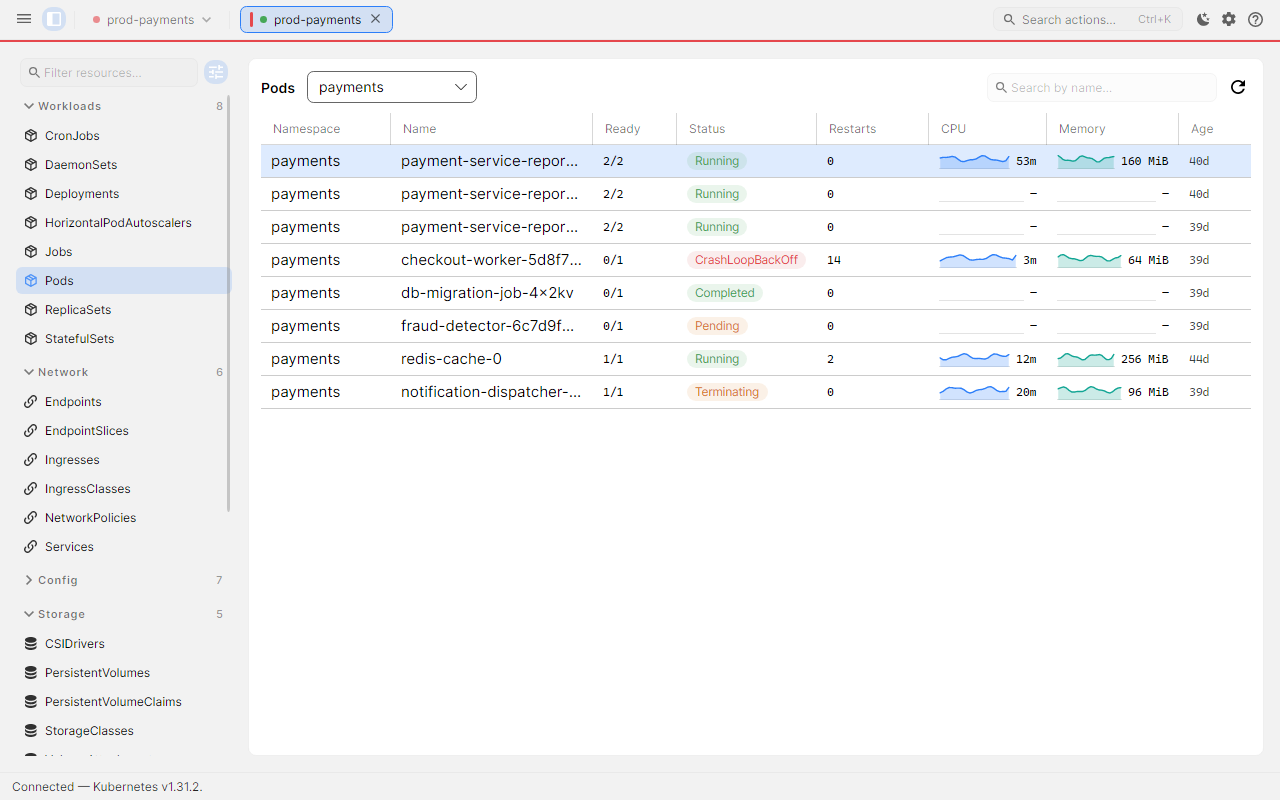
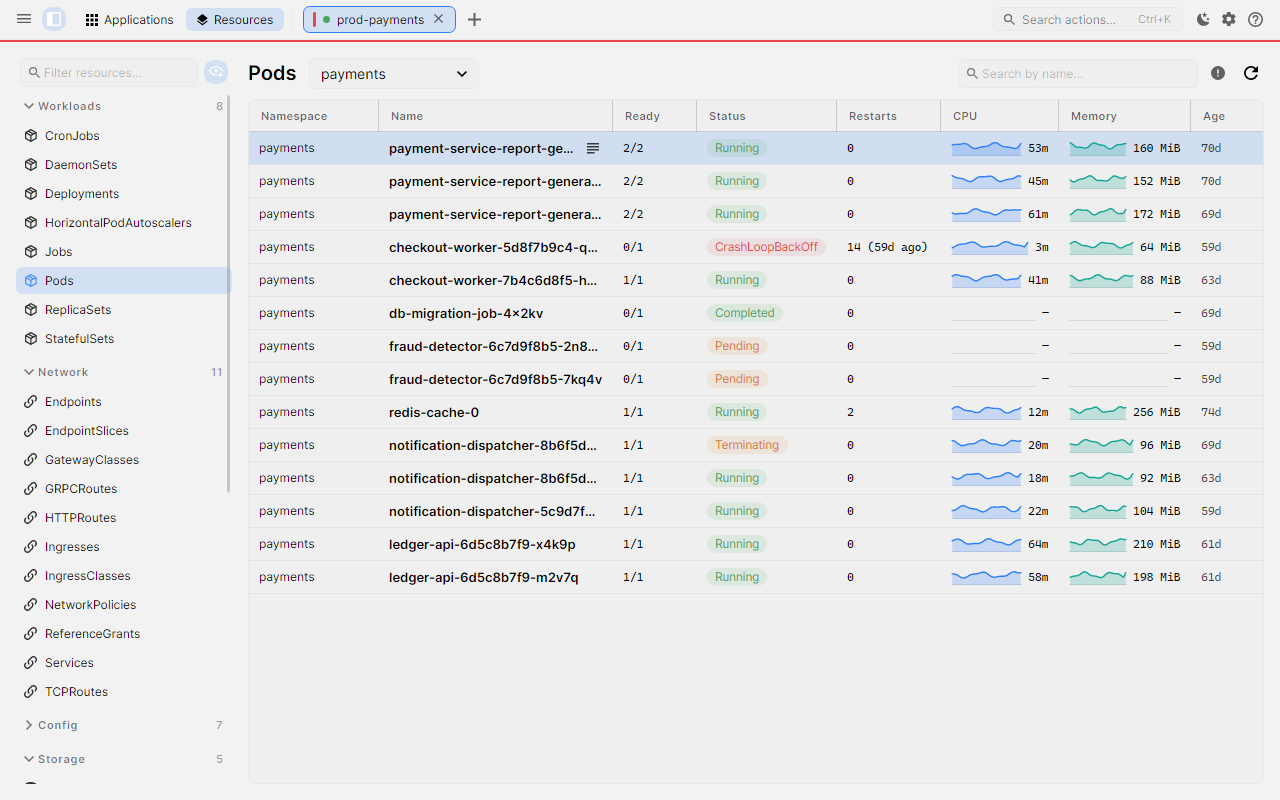
Refresh the README screenshots and add a Microsoft Store set
Every README image is re-rendered on Windows from the current UI (the
surfaces, tables and chrome this branch changed), and the gallery gains a
first row for the Applications list and page, the screen a cluster opens on.

The Store asks for desktop screenshots of 1366x768 or larger, and the
README's are 1280 wide, so the pre-launch checklist's "the generated shots
qualify" was wrong. Seven store-* harness scenarios render the same fixtures
at 1920x1080 into design/store/screenshots, with a README mapping file to
scenario; they are also the harness's only wide-window render.

diff --git a/tools/Screenshot/Program.cs b/tools/Screenshot/Program.cs
@@ -327,6 +327,18 @@ var scenarios = new (string Name, Func<Control> Build)[]
     // maximized" switch sits below the fold of the shot above.
     ("main-window-preferences-logs", () => BuildMainWindowContent(openPreferences: true)),
     ("main-window-about", () => BuildMainWindowContent(openAbout: true)),
+
+    // The Microsoft Store listing's screenshots (design/store/screenshots). The Store asks
+    // for 1366×768 or larger and every scenario above is 1280 wide, so these are the same
+    // fixtures at 1920×1080 — which also makes them the harness's only look at a wide
+    // window, where a star column that should absorb the width and does not shows up.
+    ("store-applications-list", () => HostInMainWindow(ApplicationsScenarios.List(), width: 1920, height: 1080, mode: ShellMode.Applications)),
+    ("store-applications-page", () => HostInMainWindow(ApplicationsScenarios.Page("checkout"), width: 1920, height: 1080, mode: ShellMode.Applications)),
+    ("store-pod-detail", () => HostInMainWindow(ClusterTabScenarios.PodDetail(), width: 1920, height: 1080)),
+    ("store-yaml-editor", () => HostInMainWindow(ClusterTabScenarios.YamlEditorMaximized(), width: 1920, height: 1080)),
+    ("store-fleet-list", () => HostInMainWindow(ClusterTabScenarios.FleetList(), width: 1920, height: 1080)),
+    ("store-cluster-switcher", () => BuildSwitcherContent(width: 1920, height: 1080)),
+    ("store-exec-terminal", () => HostInMainWindow(ClusterTabScenarios.ExecFullScreenMaximized(), width: 1920, height: 1080)),
 };
 
 foreach (var (name, build) in scenarios)
@@ -390,7 +402,7 @@ void Capture(string name, ThemeVariant theme, Func<Control> build)
         || name == "cluster-tab-list-unhealthy-fleet-partial-narrow")
         LayoutChecks.GridReachesLastColumn(window);
     if (name == "ux-exec-keys") KeyboardChecks.ExecKeys(window);
-    if (name.StartsWith("applications-page", StringComparison.Ordinal)) ApplicationsChecks.SettlePage(window);
+    if (name.StartsWith("applications-page", StringComparison.Ordinal) || name == "store-applications-page") ApplicationsChecks.SettlePage(window);
     if (name == "ux-unhealthy-toggle") UxInteractionChecks.UnhealthyToggle(window);
     if (name == "ux-logs-palette") UxInteractionChecks.LogsPalette(window);
     if (name == "ux-row-logs") UxInteractionChecks.RowLogs(window);
@@ -554,13 +566,13 @@ static Control BuildMainWindowContent(bool openShortcuts = false, bool openPrefe
 
 // The cluster switcher, open. `query` renders the searching state — one flat
 // ranked list — against the grouped Open/Pinned/All layout of the empty query.
-static Control BuildSwitcherContent(string? query = null)
+static Control BuildSwitcherContent(string? query = null, int width = 1280, int height = 800)
 {
     var window = new MainWindow();
     var vm = new MainWindowViewModel();
     window.DataContext = vm;
-    window.Width = 1280;
-    window.Height = 800;
+    window.Width = width;
+    window.Height = height;
     SeedContexts(vm);
     vm.Mode = ShellMode.Resources;
 

diff --git a/design/store/screenshots/README.md b/design/store/screenshots/README.md
@@ -1,0 +1,36 @@
+# Microsoft Store screenshots
+
+The screenshots for the Microsoft Store listing, in the order the listing shows them.
+Like [`../../screenshots`](../../screenshots/README.md), every PNG here is **generated**
+by the headless harness in [`tools/Screenshot`](../../../tools/Screenshot), from the demo
+cluster's synthetic dataset, and the same rule applies: **rebuild them on Windows**, because
+the monospace panes ask for Cascadia Mono or Consolas, which only Windows ships.
+
+They are a separate set from the README's because of size. The Store asks for desktop
+screenshots of 1366×768 or larger, and every ordinary harness scenario renders at 1280
+wide. The `store-*` scenarios render the same fixtures at 1920×1080, the size a listing is
+most often viewed at. All seven are the dark theme.
+
+To refresh them after a UI change:
+
+```bash
+dotnet run --project tools/Screenshot -- /tmp/kubenimbus-store store-
+```
+
+then copy the `.dark.png` of each:
+
+| This file | Harness scenario |
+|---|---|
+| `01-applications-list.png` | `store-applications-list` |
+| `02-applications-page.png` | `store-applications-page` |
+| `03-pod-detail.png` | `store-pod-detail` |
+| `04-yaml-editor.png` | `store-yaml-editor` |
+| `05-fleet-list.png` | `store-fleet-list` |
+| `06-cluster-switcher.png` | `store-cluster-switcher` |
+| `07-exec-terminal.png` | `store-exec-terminal` |
+
+The first one is the Applications list because that is the screen the app opens on. The
+two Applications shots carry the demo cluster's banner, which says the data is sample
+data; keep it in, for the same reason the README says so under its gallery.
+
+Uploading them to Partner Center is a manual step; nothing in the release workflow does it.

diff --git a/README.md b/README.md
@@ -43,6 +43,10 @@
 
 <table>
   <tr>
+    <td width="50%"><img src="design/screenshots/applications-list.dark.png" alt="Applications list: every app with a health verdict and a one-line reason, what needs attention first"><br><sub><b>Applications</b> — where a cluster opens: every app's health and the reason, read from the cluster's own status, what needs attention first.</sub></td>
+    <td width="50%"><img src="design/screenshots/application-page.dark.png" alt="Application page: findings quoting the fields they came from, a timeline, and the crashing pod's last run"><br><sub><b>One Enter to the why</b> — findings that quote the field they came from, the last hour on a timeline, and the crashing pod's last run.</sub></td>
+  </tr>
+  <tr>
     <td width="50%"><img src="design/screenshots/pod-detail.dark.png" alt="Pod detail docked along the bottom with container chips and live logs"><br><sub><b>Pod detail</b> docks along the bottom — full-width logs, not a cramped sidecar.</sub></td>
     <td width="50%"><img src="design/screenshots/yaml-editor.dark.png" alt="YAML editor with syntax highlighting"><br><sub><b>YAML editing</b> with syntax highlighting and server-side apply.</sub></td>
   </tr>

diff --git a/design/screenshots/README.md b/design/screenshots/README.md
@@ -30,6 +30,8 @@ then copy the ones the README uses:
 | This file | Harness scenario |
 |---|---|
 | `workloads-list.light.png` / `.dark.png` | `cluster-tab-workloads-list-metrics` |
+| `applications-list.dark.png` | `applications-list` |
+| `application-page.dark.png` | `applications-page-crashloop` |
 | `pod-detail.dark.png` | `cluster-tab-pod-detail` |
 | `yaml-editor.dark.png` | `cluster-tab-yaml-editor-maximized` |
 | `rbac-who-can.dark.png` | `cluster-tab-rbac-who-can` |
@@ -47,6 +49,9 @@ area.
 Only the hero image is checked in for both themes — GitHub's `<picture>` element
 switches it with the reader's theme. The gallery below it is dark-only, to keep
 the repository from carrying twice the bytes for a marginal gain.
+
+The Microsoft Store listing has its own set, at the size the Store asks for, in
+[`../store/screenshots`](../store/screenshots/README.md).
 
 **The data is synthetic.** Cluster names, pod names, usage numbers, RBAC
 subjects and Secret values all come from the demo cluster's dataset,

diff --git a/CHANGELOG.md b/CHANGELOG.md
@@ -32,6 +32,9 @@ it as the GitHub Release body, so headings must match tags exactly
   list. The workload pane's Refresh and Actions are real buttons instead of bare words.
 - The YAML editor's Delete button is drawn as a destructive button and no longer sits right
   beside Apply.
+- The README gallery opens on the Applications list and page, and every README screenshot
+  was re-rendered. The Microsoft Store listing has its own 1920×1080 set in
+  `design/store/screenshots/`; the README's 1280-wide images were below the Store's minimum.
 - The log panes' toolbar is shorter: Timestamps, UTC, Wrap, Clear and Save moved into a `⋯`
   menu. Copy stays on the toolbar.
 - A crash-looping application no longer flickers between Degraded and Healthy. Between two

diff --git a/design/CLAUDE.md b/design/CLAUDE.md
@@ -9,7 +9,9 @@ mark's geometry was derived. Four rules matter here:
    `src/KubeNimbus.App/Assets/*.ico|Msix/**` is generated and checked in.
    (`design/screenshots/` comes out of `tools/Screenshot`, not the logo
    pipeline — see [`design/screenshots/README.md`](../design/screenshots/README.md)
-   for the scenario→file mapping.) Draw in the `.af`, then run the pipeline
+   for the scenario→file mapping; `design/store/screenshots/` likewise, from the
+   `store-*` scenarios, see [its README](../design/store/screenshots/README.md) —
+   `make-store-logos.ps1` writes beside it and never touches it.) Draw in the `.af`, then run the pipeline
    **in this order** — each step eats the previous one's output:
 
    ```powershell

diff --git a/docs/PRE-LAUNCH-CHECKLIST.md b/docs/PRE-LAUNCH-CHECKLIST.md
@@ -130,7 +130,8 @@ and reasoning are in CLAUDE.md, "Microsoft Store (MSIX)".
       moment.
 - [ ] **Partner Center → kubeNimbus → Packages** — upload the `.msix`.
 - [ ] **Store listing** — description, at least one screenshot (1366×768 or
-      larger; the generated `design/screenshots/` shots qualify), search terms
+      larger: `design/store/screenshots/`, 1920×1080 — the README's
+      `design/screenshots/` are 1280 wide and do not qualify), search terms
       (`kubernetes`, `k8s`, `kubectl`, `cluster`, `devops`), and the support and
       privacy links (this repo's Issues, and `SECURITY.md` for the "no telemetry,
       no persisted credentials" claim).
